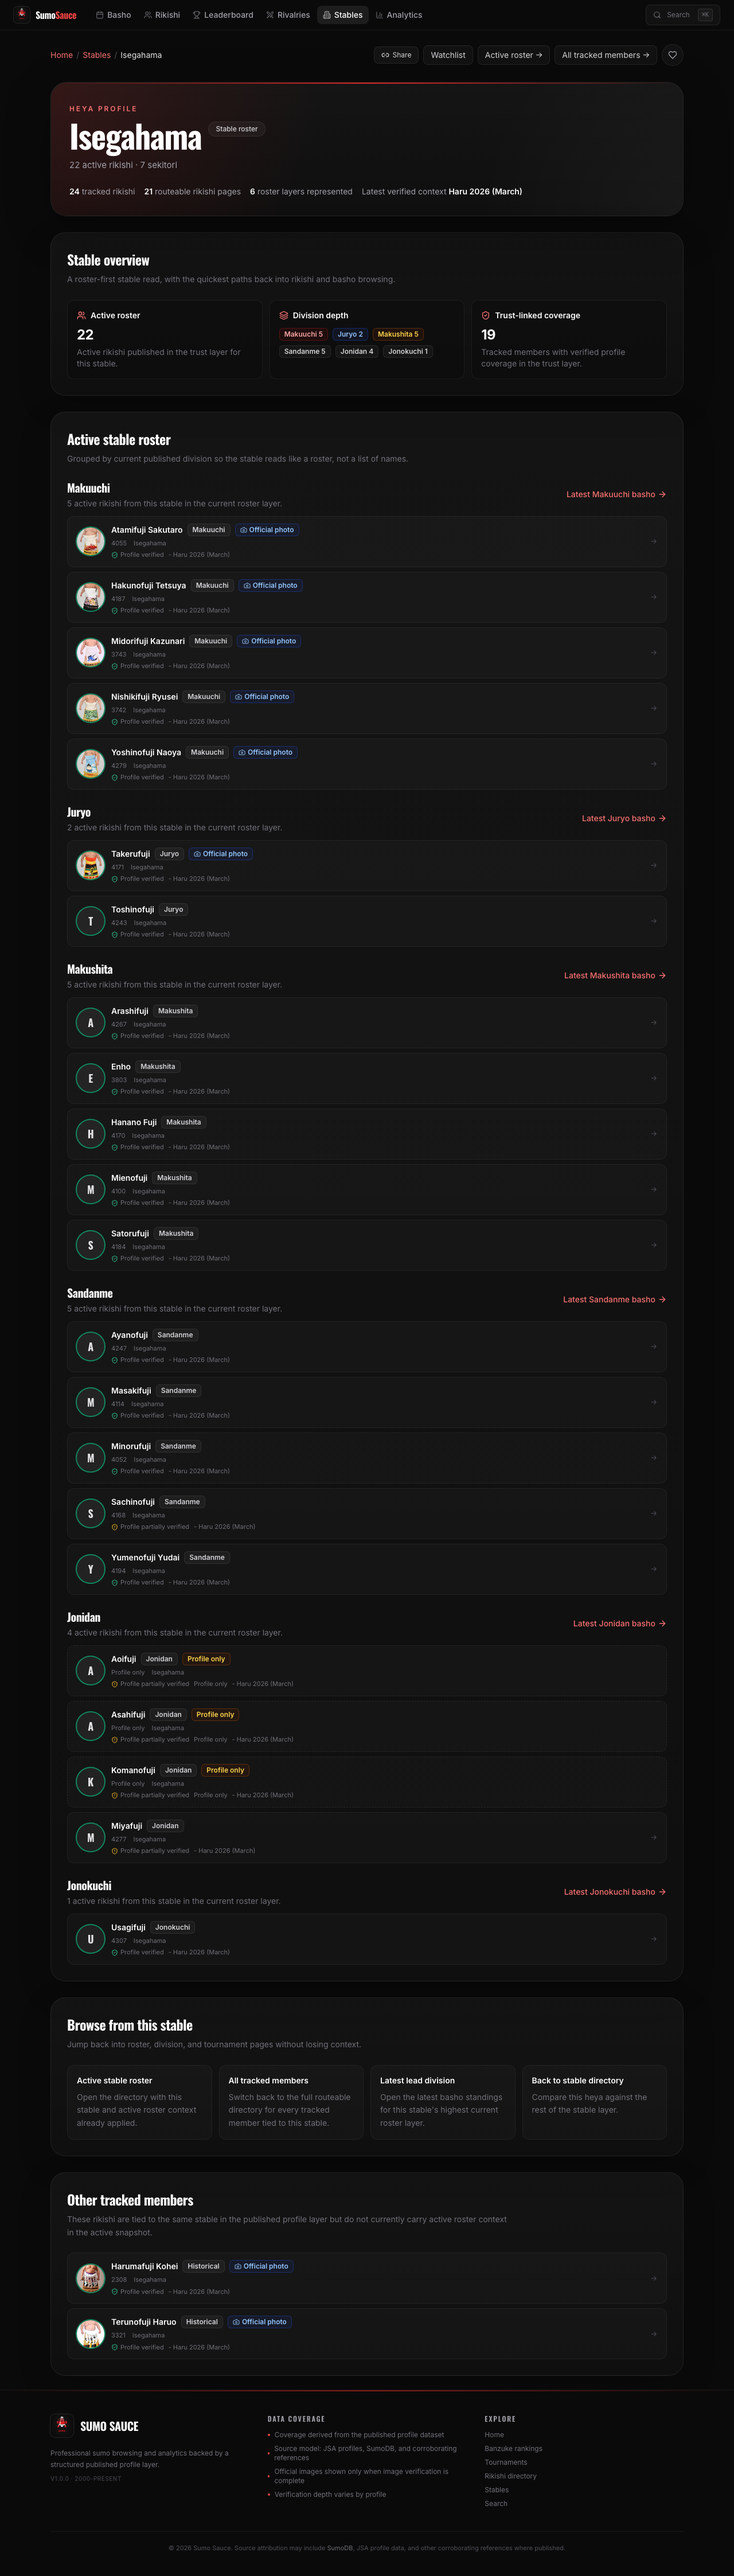
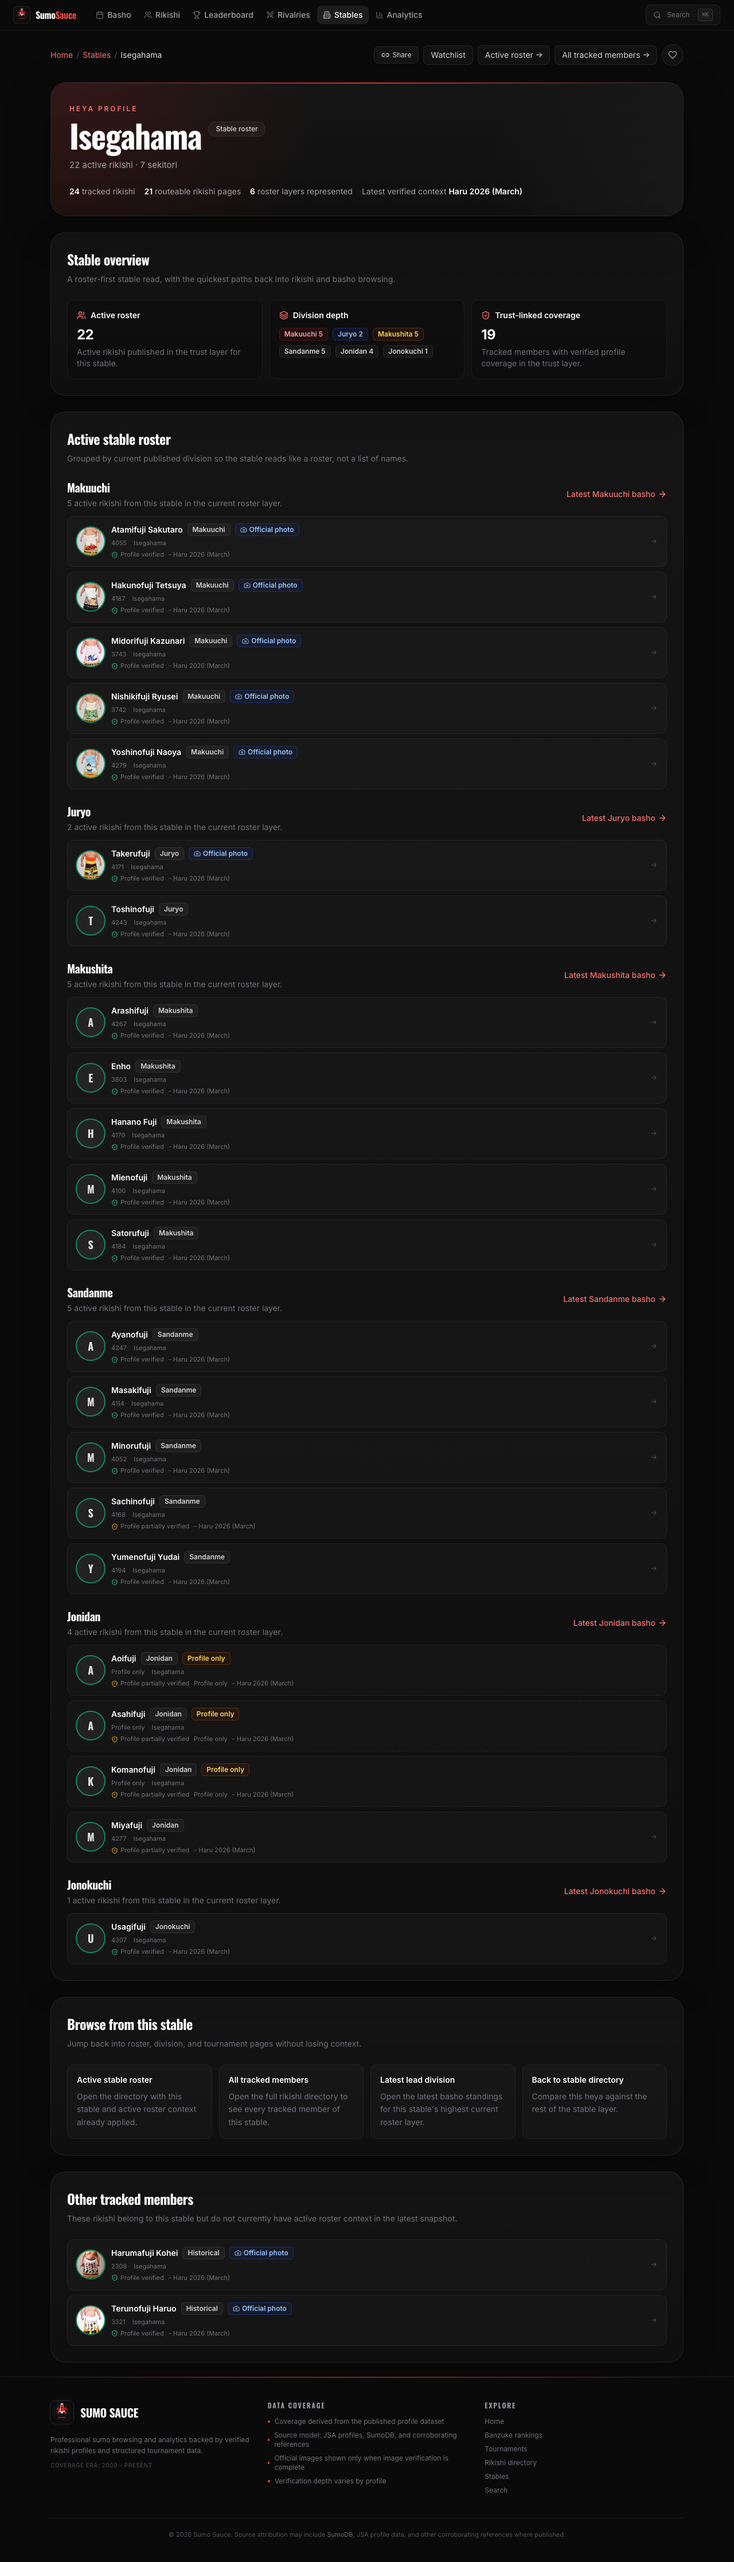
docs: update live audit with product cleanup results
- Post-deploy Playwright results (zero page errors)
- SumoWatch remnant removal log
- Internal jargon replacement log
- Footer cleanup documentation

diff --git a/docs/live-audit/LIVE_POST_WIRING_CHECK.md b/docs/live-audit/LIVE_POST_WIRING_CHECK.md
@@ -701,3 +701,59 @@ are `/basho/202603*` (future basho not in static data) and `/rikishi/3842`
 
 **Redirected (1):**
 `/wrestler/:rid` → `/rikishi/:rid`
+
+---
+
+## Product Cleanup + Greatness Audit
+
+Date: 2026-03-25
+
+### Commits
+
+| SHA | Description |
+|-----|-------------|
+| `de1cdc8` | fix: remove remaining SumoWatch brand references |
+| `8e1ce0d` | fix: replace internal jargon with clear user-facing language |
+
+### SumoWatch / C4 Remnant Removal
+
+- `public/robots.txt` — removed `# SumoWatch` comment and `sumowatch.app` sitemap URL
+- `scripts/ci-proof-pack-local.sh` — renamed temp db file from sumowatch to sumosauce
+- `scripts/export-research-batches.mjs` — fixed manifest description string
+- `src/components/ui/PageMeta.tsx` — defensive sanitizer retained (replaces SumoWatch→Sumo Sauce at runtime)
+
+### Internal Jargon Replaced
+
+The following terms were systematically replaced across 12 files:
+- "profile layer" → "published profiles" / "published dataset"
+- "routeable" → "full" (career pages)
+- "domain build", "entity id", "domain dataset" → plain language
+- "Data not loaded" → "Limited coverage"
+
+Files modified: `DataUnavailableState.tsx`, `Footer.jsx`, `DatasetInfoPanel.tsx`,
+`RikishiPage.tsx`, `index.jsx`, `SearchPage.tsx`, `RikishiDirectoryPage.tsx`,
+`StablesPage.tsx`, `StablePage.tsx`, `ComparePage.tsx`, `GlobalStatsPage.tsx`,
+`Leaderboard.jsx`
+
+### Footer Cleanup
+
+- Removed `v1.0.0` version placeholder
+- Changed `v1.0.0 · 2000-present` → `Coverage era: 2000 – present`
+- Updated tagline to: "Professional sumo browsing and analytics backed by verified rikishi profiles and structured tournament data."
+
+### Playwright Runtime Check (Post-Deploy)
+
+| Route | Page Errors | API 404s | Status |
+|-------|------------|----------|--------|
+| `/` | 0 | 2 | Renders via static fallback |
+| `/rikishi/12451` | 0 | 0 | CLEAN |
+| `/rikishi/3842` | 0 | 3 | Degrades gracefully (profile not in dataset) |
+| `/basho/202603` | 0 | 1 | Renders via static fallback |
+| `/basho/202603/makuuchi` | 0 | 4 | Future basho with partial data |
+| `/leaderboard` | 0 | 0 | CLEAN |
+| `/rivalries` | 0 | 0 | CLEAN |
+| `/analytics` | 0 | 1 | Renders via static fallback |
+| `/stables` | 0 | 0 | CLEAN |
+| `/stables/isegahama` | 0 | 0 | CLEAN |
+
+**Zero page errors across all 10 tested routes.**
